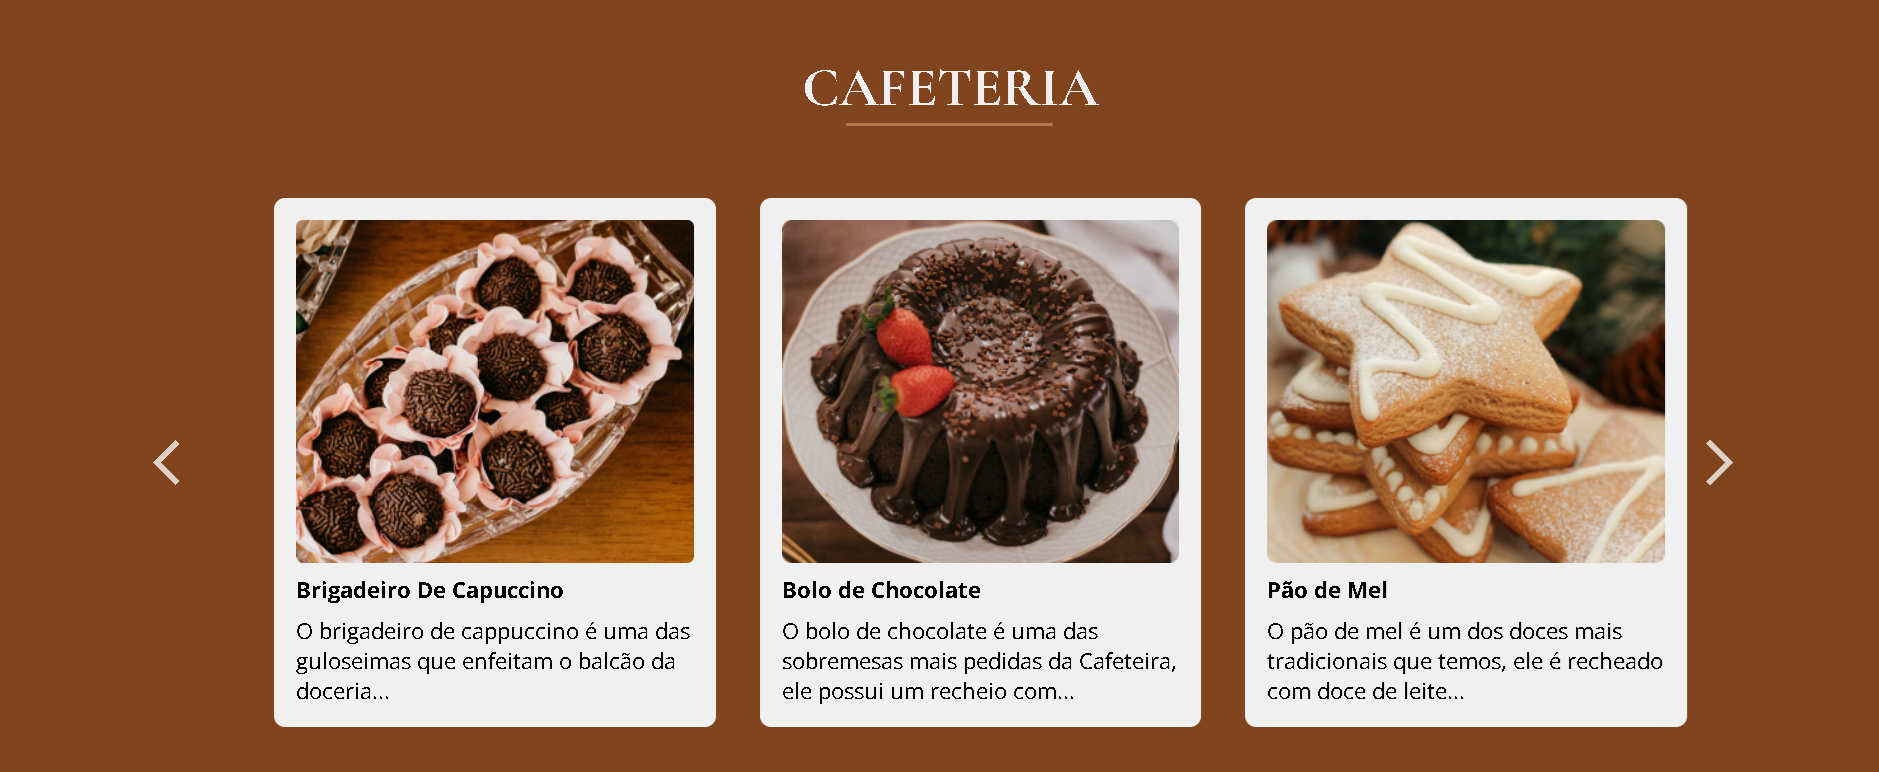
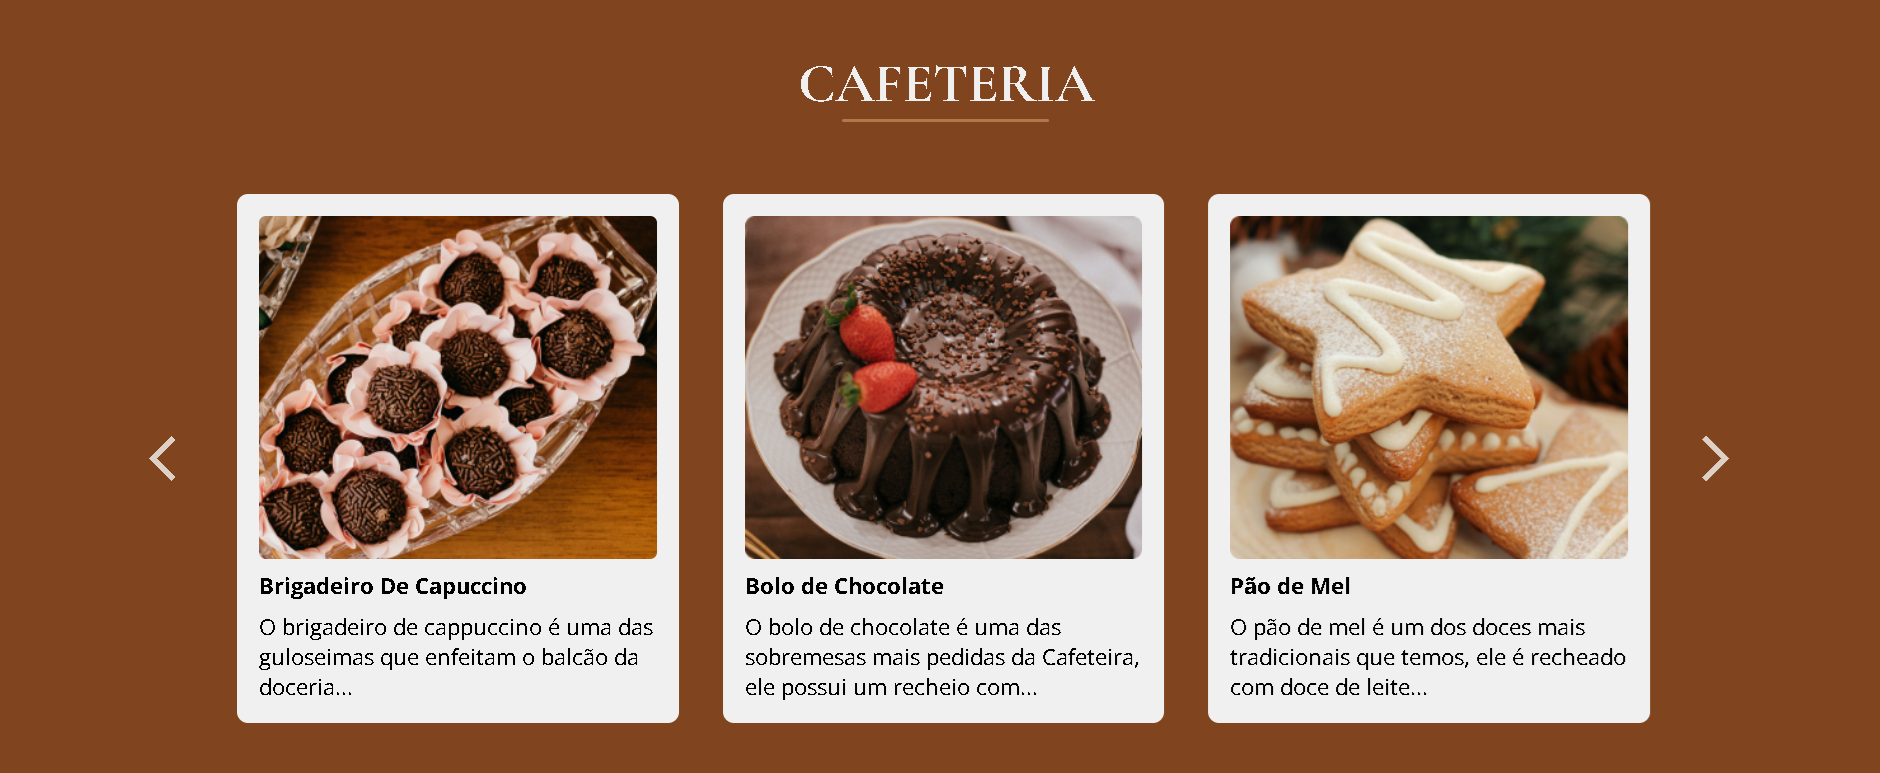
fix: align style and image

diff --git a/style.css b/style.css
@@ -211,7 +211,7 @@ main.overlay, footer.overlay {
     display: grid;
     grid-auto-flow: column;
     gap: 2rem;
-    padding: 0 3rem 0 3rem;
+    margin: 0 1.5rem 0 1.5rem;
     overflow-x: scroll;
 }
 
@@ -609,7 +609,7 @@ footer{
     }
 
     #carousel{
-        padding: 0;
+        margin: 0;
         gap: 2rem;
     }
 

diff --git a/README.md b/README.md
@@ -17,6 +17,7 @@
 ## 🧐 About <a name = "about"></a>
 
 <img src="./images/home-image.png" alt="Project Home Page">
+<br> 
 
 O projeto incluiu as seguintes etapas:
 
@@ -24,6 +25,7 @@ O projeto incluiu as seguintes etapas:
 - **Prototipação:** Analisar o design do Figma e discutir com o padrinho estratégias de como abordar o projeto, para poder estruturar a página da maneira mais fiel possível ao seu design original.
 - **Front-end:** Com base no layout disponível, deveria realizar a codificação da interface previamente prototipada, tornando sua visualização agradável e responsiva, com um carrossel funcional e formulário com autenticação.
 
+<br> 
 <img src="./images/coffeeshop-image.png" alt="Project Coffee Shop">
 
 ## ⛏ Built Using <a name = "built_using"></a>
